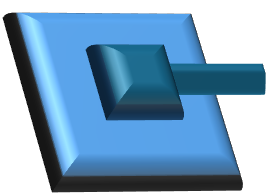
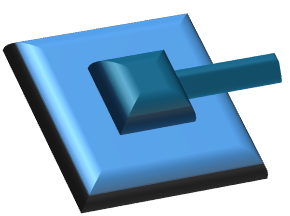
fix: チーム情報の戦車画像を改善

diff --git a/src/client/ui/TeamInfoIcon.java b/src/client/ui/TeamInfoIcon.java
@@ -22,8 +22,8 @@ public class TeamInfoIcon implements UIContent {
 	private StageInfo info;
 
 	// 表示サイズ調整用
-	private double cardScale = 0.6;
-	private double tankScale = 0.8;
+	private double baseScale = 0.6;
+	private double tankScale = 1.3;
 
 	// 画像リソース
 	private static Image normalRedBaseImage, brokenRedBaseImage, redBaseRuinsImage;
@@ -71,8 +71,8 @@ public class TeamInfoIcon implements UIContent {
 		}
 	}
 
-	private double getImageScale() {
-		boolean isRuins = getBaseState() == RUINS;
+	private boolean isRuins() {
+		return getBaseState() == RUINS;
 	}
 
 	private Base.State getBaseState() {
@@ -95,14 +95,23 @@ public class TeamInfoIcon implements UIContent {
 		Image image = this.getImage();
 
 		// 画像の位置を計算
-		double scale =
-		double baseX = isRed ? windowWidth - cardScale * image.getWidth(null) - 10 : 10;
-		double baseY = windowHeight - cardScale * image.getHeight(null);
+		double scale, x, y;
+		if (isRuins()) {
+			// 戦車を表示する
+			scale = tankScale;
+			x = isRed ? windowWidth - scale * image.getWidth(null) - 10 : 10;
+			y = windowHeight - scale * image.getHeight(null) - 10;
+		} else {
+			// 基地を表示する
+			scale = baseScale;
+			x = isRed ? windowWidth - scale * image.getWidth(null) - 10 : 10;
+			y = windowHeight - scale * image.getHeight(null);
+		}
 
 		// 画像の描画
 		AffineTransform baseTrans = new AffineTransform();
-		baseTrans.translate(baseX, baseY);
-		baseTrans.scale(cardScale, cardScale);
+		baseTrans.translate(x, y);
+		baseTrans.scale(scale, scale);
 		graphics.drawImage(image, baseTrans, null);
 	}
 }
